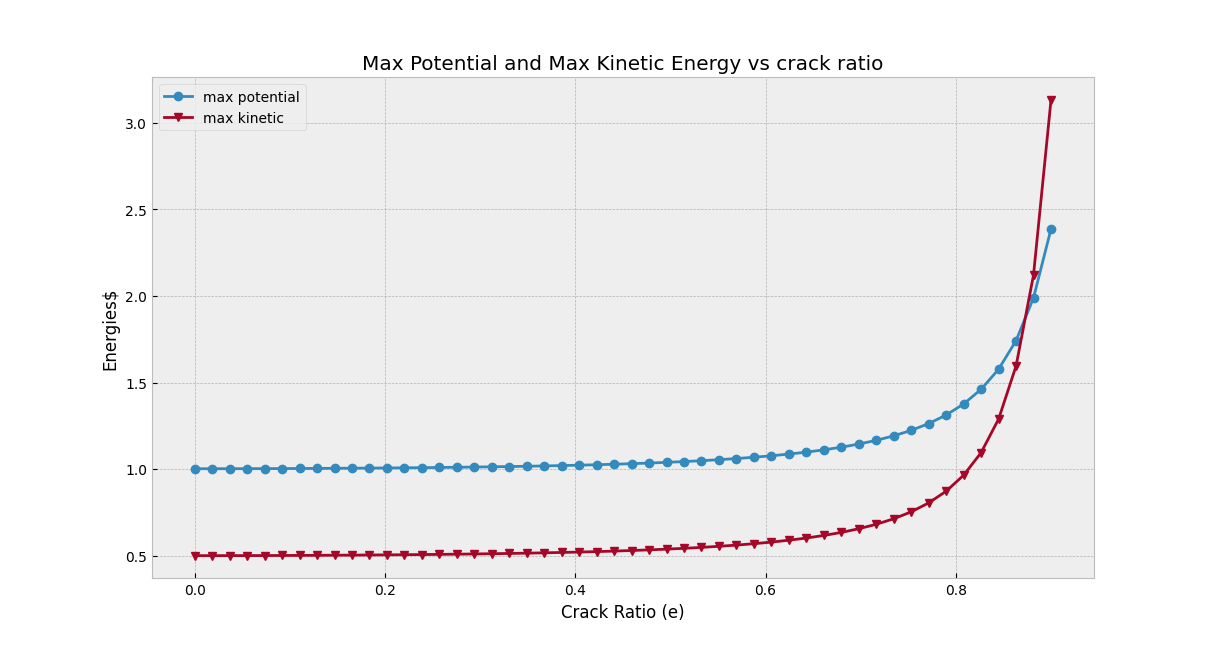
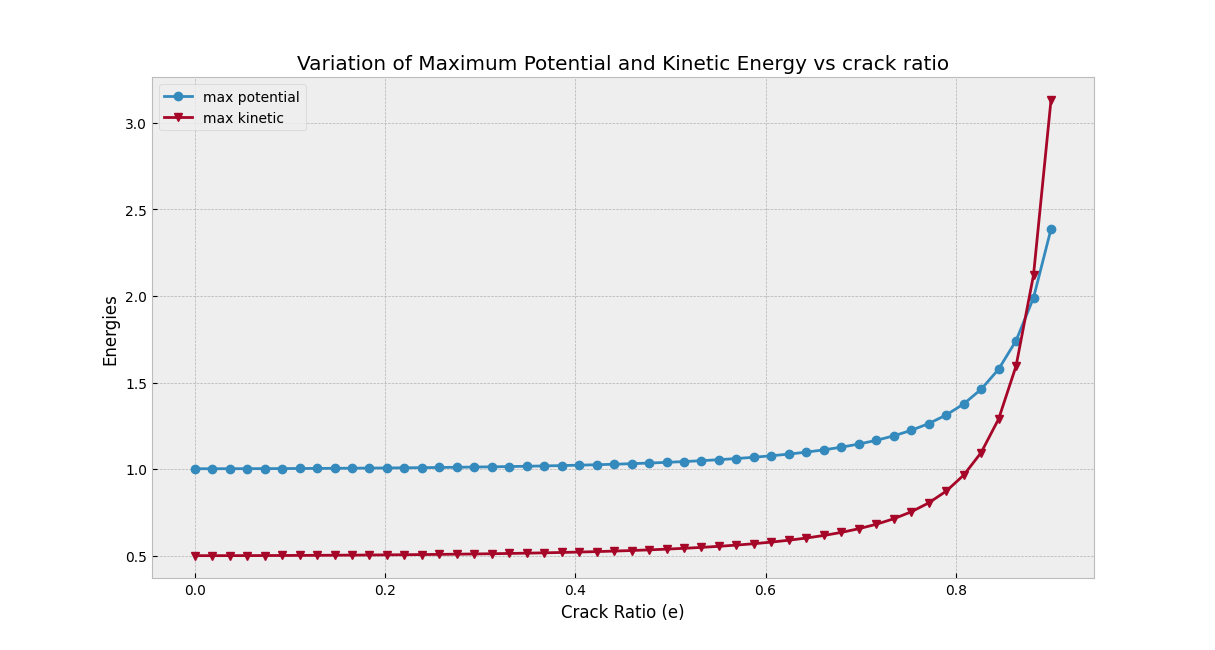
Corrected title

Changed region(s): [[0.2436, 0.0615, 0.7918, 0.1231], [0.0914, 0.4923, 0.1218, 0.5231], [0.0609, 0.5231, 0.0914, 0.5538]]

diff --git a/main.py b/main.py
@@ -56,9 +56,9 @@ ax1.set_ylabel("Natural Frequency $\omega_n$")
 fig2 , ax2 = plt.subplots(1,1, figsize=(16, 9))
 ax2.plot(e , max_potential,'-o',label="max potential")
 ax2.plot(e,max_kinetic_energy,'-v',label = "max kinetic")
-ax2.set_title("Max Potential and Max Kinetic Energy vs crack ratio")
+ax2.set_title("Variation of Maximum Potential and Kinetic Energy vs crack ratio")
 ax2.set_xlabel("Crack Ratio (e)")
-ax2.set_ylabel("Energies$")
+ax2.set_ylabel("Energies")
 ax2.legend()
 plt.show()
 
